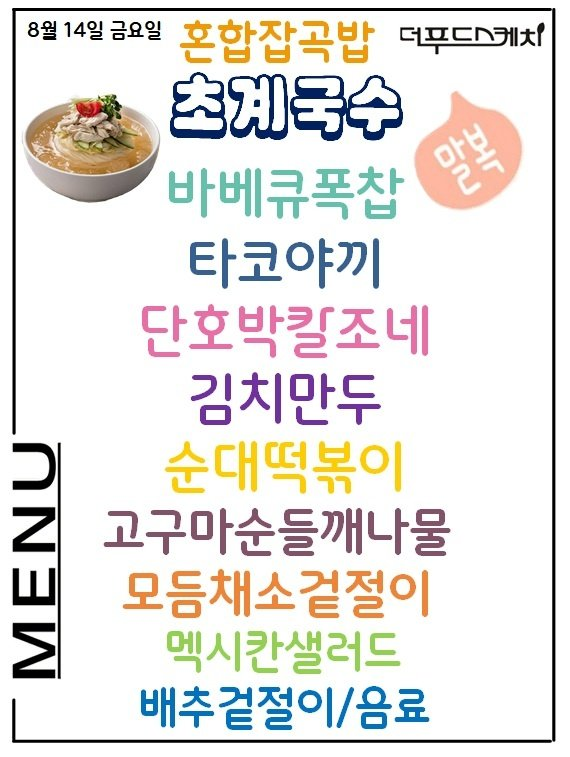
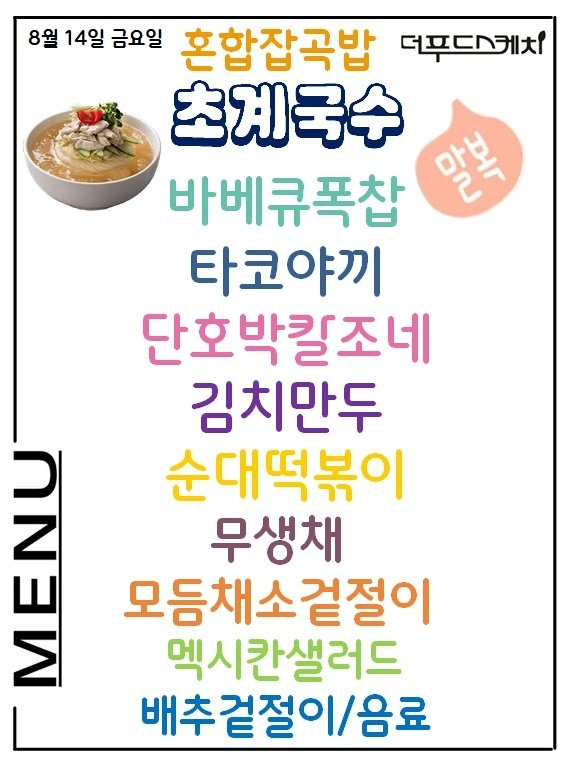
Update menu board assets

Changed region(s): [[0.0, 0.0, 0.9877, 1.0], [0.0, 0.9115, 0.0299, 0.9723], [0.7482, 0.2431, 0.7782, 0.2734]]

diff --git a/menu-today/index.html b/menu-today/index.html
@@ -209,7 +209,7 @@
 
     <section class="meta-bar">
       <div class="meta-card"><div class="meta-label">기준 날짜</div><div class="meta-value">2026년 8월 14일 금요일</div></div>
-      <div class="meta-card"><div class="meta-label">최종 가져온 시간</div><div class="meta-value">2026-08-14 10:18:12</div></div>
+      <div class="meta-card"><div class="meta-label">최종 가져온 시간</div><div class="meta-value">2026-08-14 10:33:16</div></div>
       <div class="meta-card"><div class="meta-label">확인 완료</div><div class="meta-value">9개 식당</div></div>
       <div class="meta-card"><div class="meta-label">준비중</div><div class="meta-value">3개 채널</div></div>
     </section>
@@ -295,7 +295,7 @@
             <div class="sub">에이스테크노타워10차</div>
           </div>
         </div>
-        <div class="menu-inline-image"><img src="./images/thefoodsketch.png" alt="더푸드스케치 식단 이미지"></div><ul><li>SF 바베큐폭삽</li><li>타코야끼</li><li>단호박킬조네</li><li>김치만두</li><li>기 순대떡볶이</li><li>oS 고구마순들깨나물</li><li>모등채소겉절이</li><li>멕시칸샐러드</li><li>배추겉절이 / 음료</li><li>소계국수</li><li>순대떡볶이</li></ul>
+        <div class="menu-inline-image"><img src="./images/thefoodsketch.png" alt="더푸드스케치 식단 이미지"></div><ul><li>Ck 조계국수 &lt;</li><li>SS 바베큐폭삽</li><li>타코야끼</li><li>단호박킬조네</li><li>김치만두</li><li>기 순대떡볶이</li><li>Z 무생채</li><li>LW) 모듬채소겉절이</li><li>멕시칸샐러드</li><li>배추겉절이 / 음료</li></ul>
       </article>
 
       <article class="restaurant-card">

diff --git a/guro-menu/index.html b/guro-menu/index.html
@@ -32,7 +32,7 @@
   </header>
   <section class="meta">
     <div><small>기준 날짜</small><strong>2026년 8월 14일 금요일</strong></div>
-    <div><small>최종 갱신</small><strong>2026-08-14 10:18:25</strong></div>
+    <div><small>최종 갱신</small><strong>2026-08-14 10:33:31</strong></div>
     <div><small>등록 식당</small><strong>5개</strong></div>
   </section>
   <div class="notice">공개 카카오 채널의 메뉴 이미지를 자동 수집하고 OCR로 정리합니다. 텍스트에 오타가 있을 수 있으니 식단 이미지를 함께 확인해 주세요.</div>
